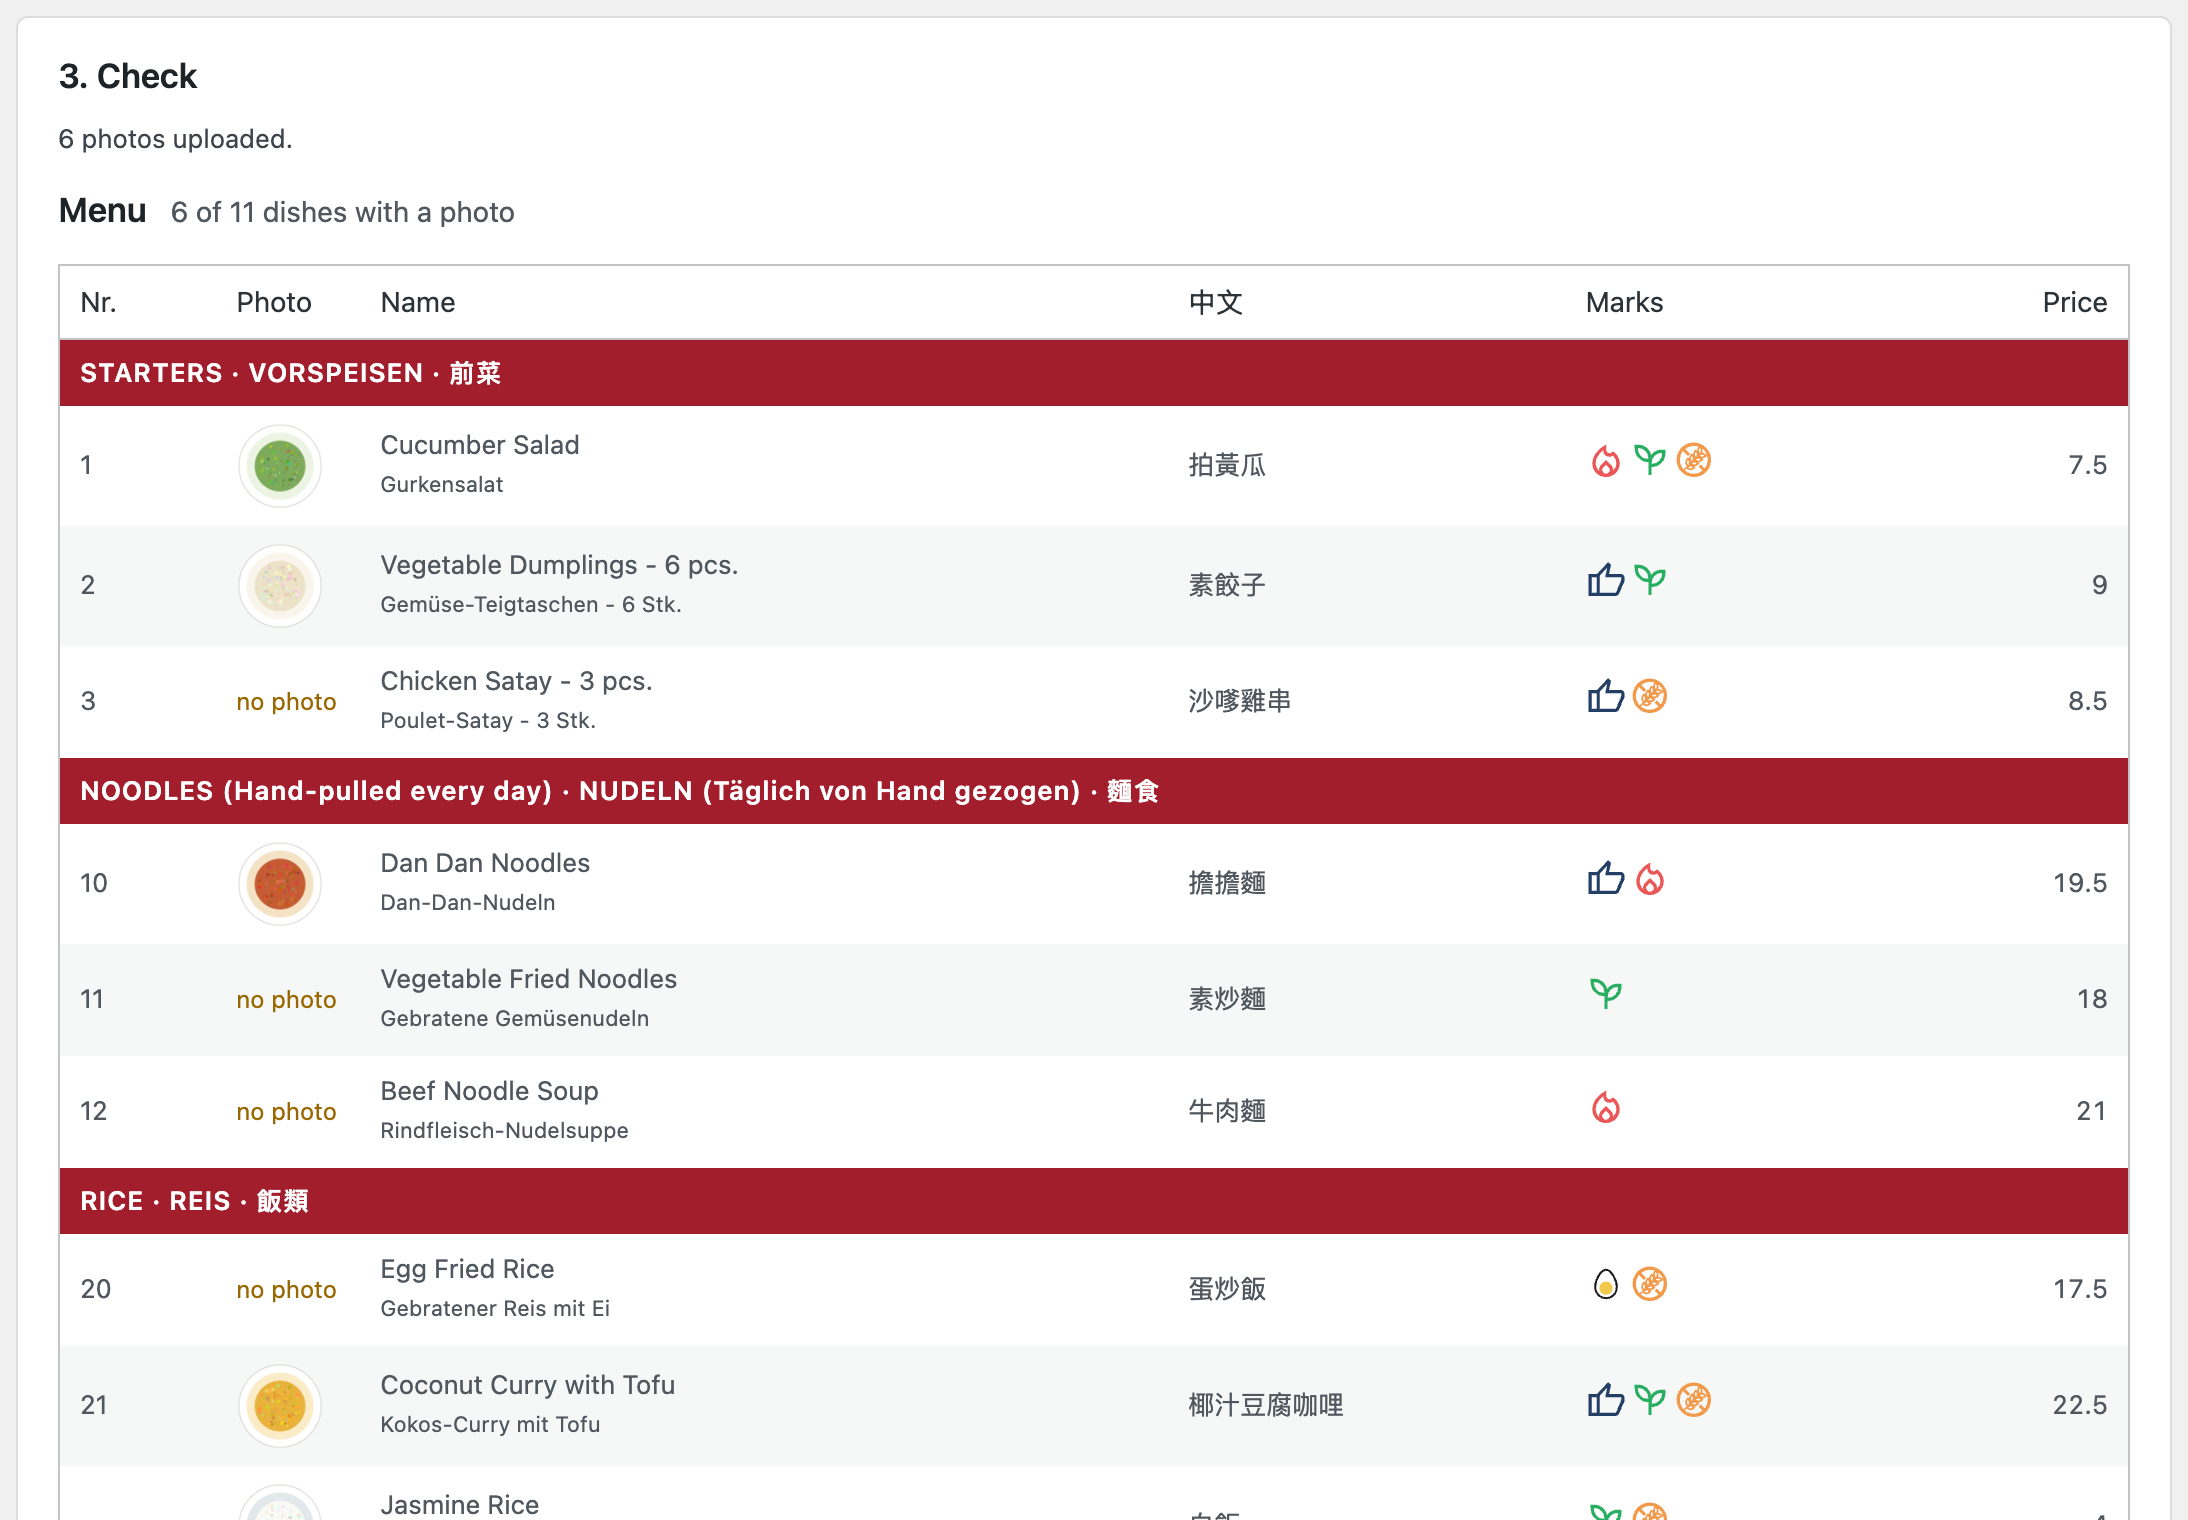
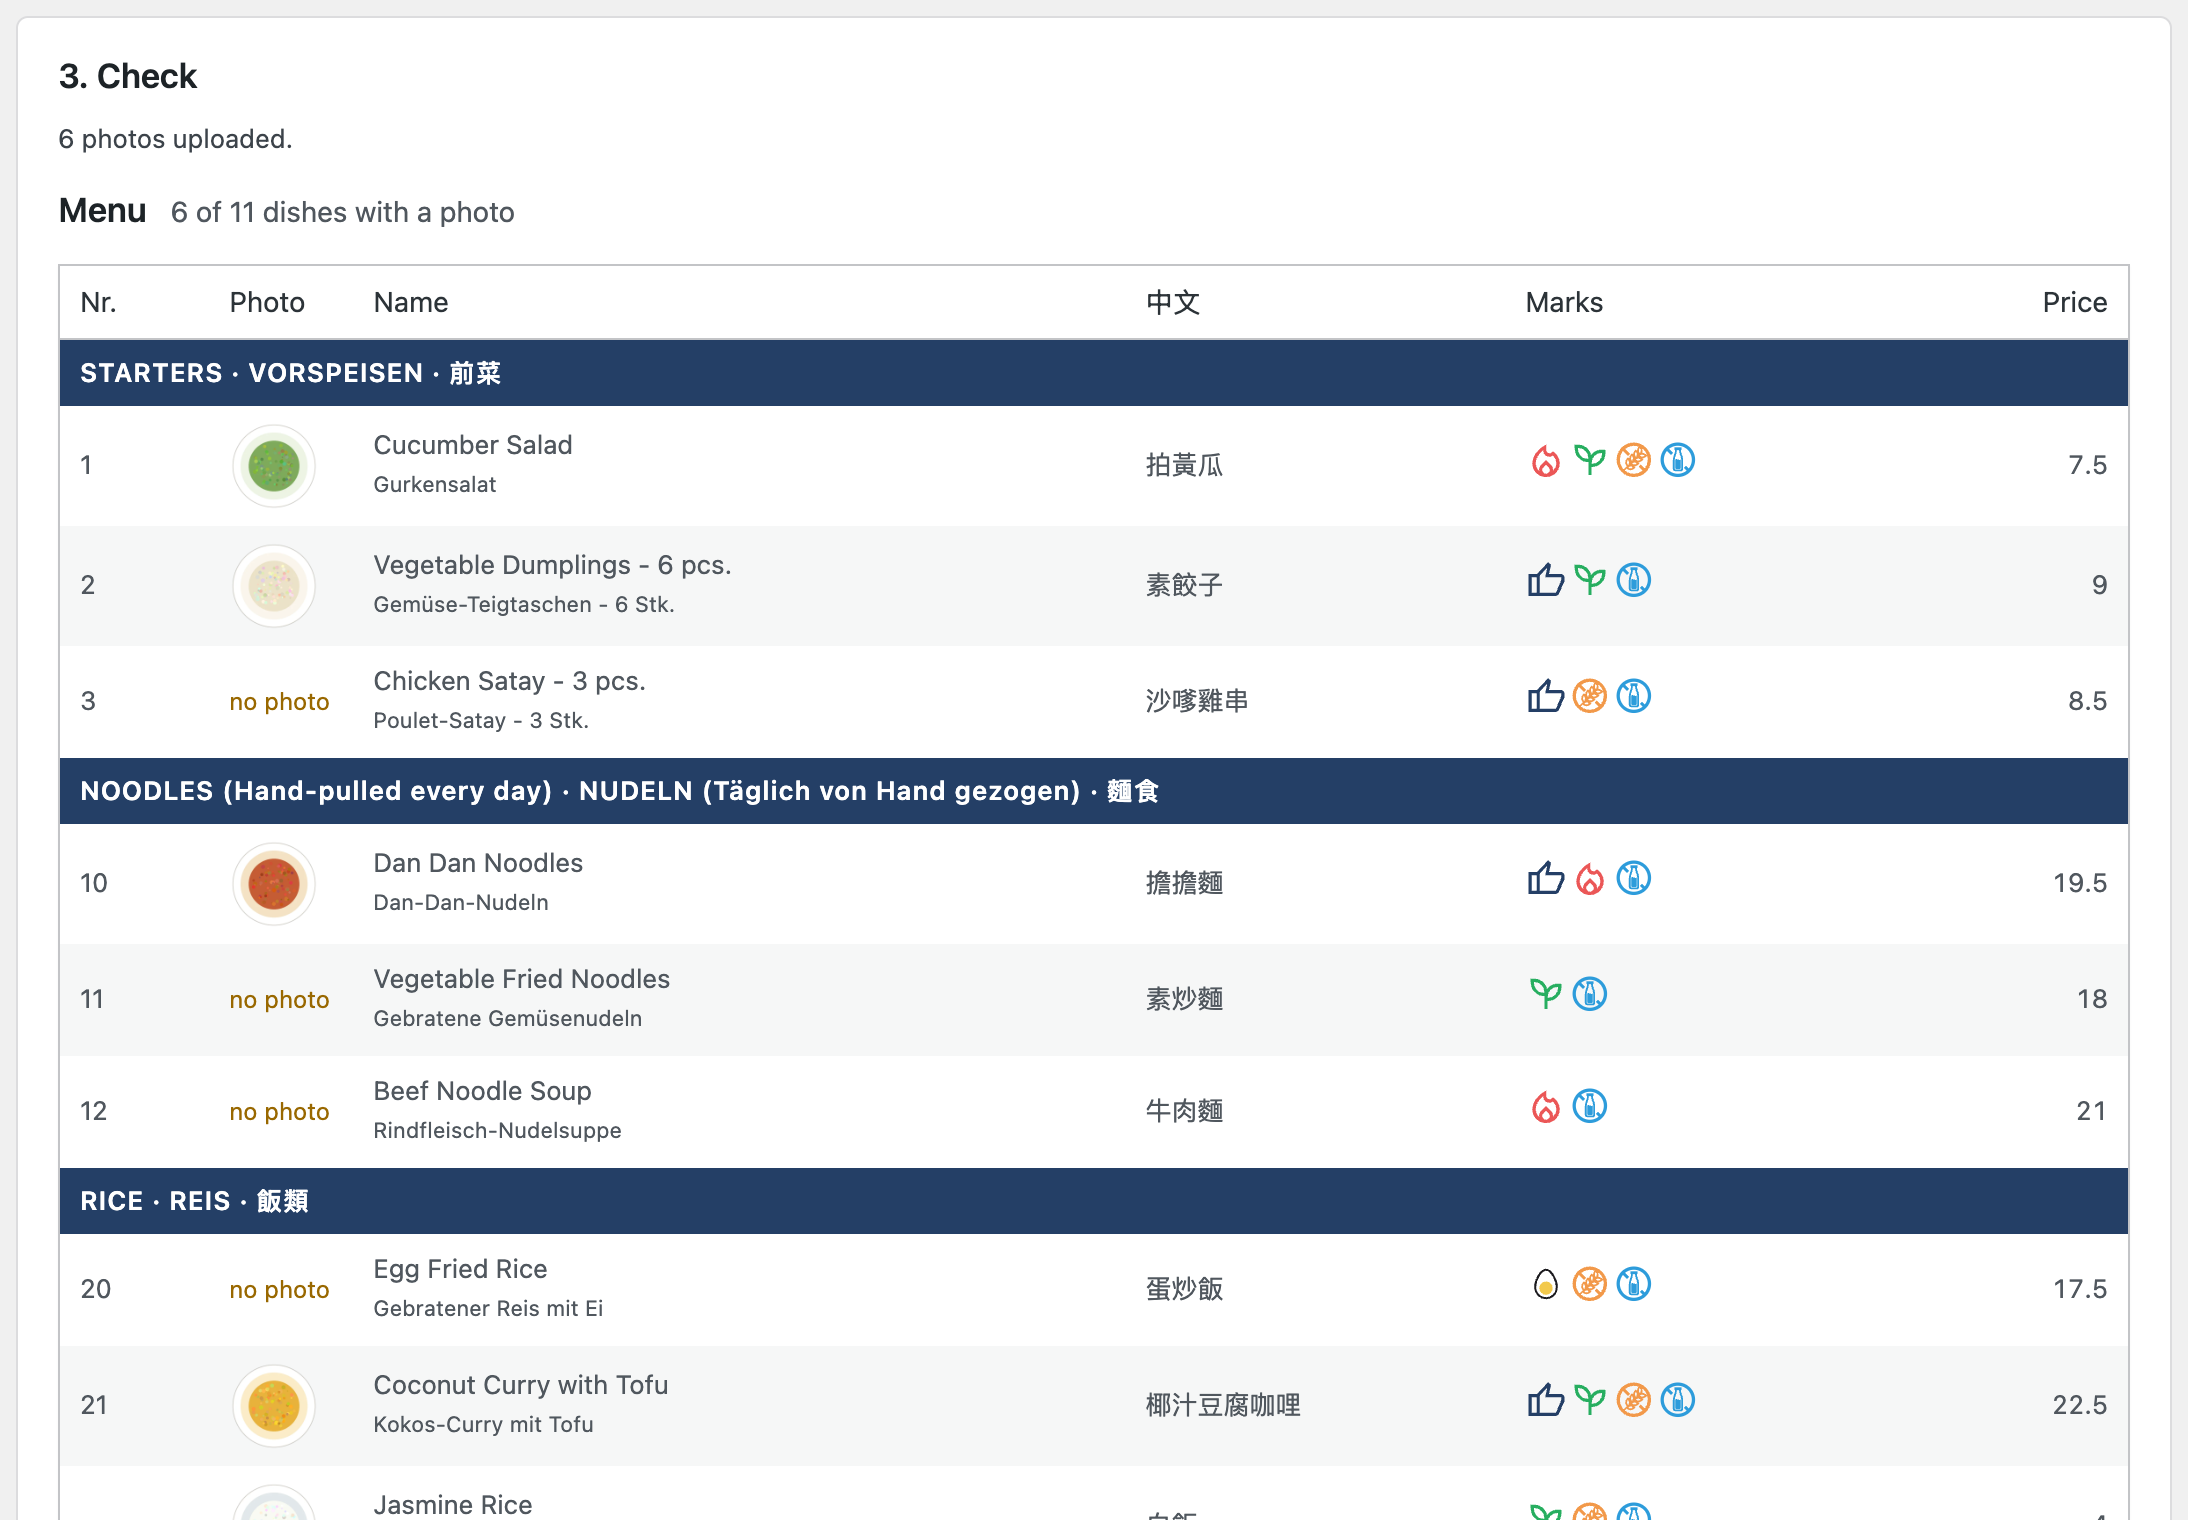
MenuDash 2.10.1: the dashboard's highlights in MenuDash's dark blue
The check table's category rows, the upload bar and the drop highlight used a hard-coded
red; they now use MenuDash's dark blue (#243F66). Buttons and links keep WordPress's own
colours. Dashboard screenshots 01, 04 and 06 retaken.

diff --git a/menudash/assets/admin.css b/menudash/assets/admin.css
@@ -1,3 +1,7 @@
+/* MenuDash's own colour for information on its screens (the add-ons' tabs too): the dark blue
+   of its icon and of the menu's default colours, for the check table, the upload bar and
+   highlights, and the Statistics charts. Buttons and links keep the dashboard's own colours. */
+.mdash-admin { --mdash-admin-accent: #243F66; --mdash-admin-tint: #eef1f6; }
 .mdash-admin .mdash-lead { font-size: 14px; }
 .mdash-admin .mdash-cards { display: grid; grid-template-columns: repeat(auto-fit, minmax(230px, 1fr)); gap: 16px; margin: 16px 0; }
 /* Menu tab: the upload cards in one row. Each card is heading · instructions · upload ·
@@ -29,7 +33,7 @@
 .mdash-admin .mdash-restore > :not(span) { flex: none; }
 
 .mdash-admin .mdash-drop { display: block; padding: 22px; border: 2px dashed #c3c4c7; border-radius: 8px; text-align: center; cursor: pointer; background: #f6f7f7; }
-.mdash-admin .mdash-drop.over { border-color: #A31E2C; background: #fbf0f1; }
+.mdash-admin .mdash-drop.over { border-color: var(--mdash-admin-accent); background: var(--mdash-admin-tint); }
 /* A CSV drop box with its buttons beside it, in one row; they go below it on a narrow card. */
 /* Upload: the drop area across the whole card, the button(s) in a row below it. */
 .mdash-admin .mdash-upload-row { display: flex; flex-direction: column; align-items: stretch; gap: 10px; }
@@ -37,7 +41,7 @@
 /* The file input itself is hidden (it squeezes to "No fil…hosen" in a narrow box); the
    label opens it, and the line under the button shows the chosen file. */
 .mdash-admin .mdash-drop .mdash-file { position: absolute; width: 1px; height: 1px; opacity: 0; }
-.mdash-admin .mdash-drop:focus-within { outline: 2px solid #A31E2C; outline-offset: 2px; }
+.mdash-admin .mdash-drop:focus-within { outline: 2px solid var(--mdash-admin-accent); outline-offset: 2px; }
 .mdash-admin .mdash-drop .button { pointer-events: none; }
 .mdash-admin .mdash-drop-name { display: block; margin-top: 6px; overflow-wrap: anywhere; font-size: 12px; }
 .mdash-admin .mdash-drop.has-file .mdash-drop-name { color: #1d2327; font-weight: 600; }
@@ -45,11 +49,11 @@
 .mdash-admin .mdash-upload-btns { display: flex; flex-wrap: wrap; gap: 8px; }
 .mdash-admin .mdash-upload-btns .button { flex: 1 1 auto; margin: 0; text-align: center; }
 .mdash-admin .mdash-icon-item { border: 2px dashed #dcdcde; }
-.mdash-admin .mdash-icon-item.over { border-color: #A31E2C; background: #fbf0f1; }
+.mdash-admin .mdash-icon-item.over { border-color: var(--mdash-admin-accent); background: var(--mdash-admin-tint); }
 .mdash-admin .mdash-drop input { display: block; margin: 0 auto 8px; }
 .mdash-admin .mdash-drop span { color: #50575e; }
 .mdash-admin .mdash-meter { height: 8px; margin-top: 12px; background: #f0f0f1; border-radius: 4px; overflow: hidden; }
-.mdash-admin .mdash-meter span { display: block; width: 0; height: 100%; background: #A31E2C; transition: width .2s; }
+.mdash-admin .mdash-meter span { display: block; width: 0; height: 100%; background: var(--mdash-admin-accent); transition: width .2s; }
 .mdash-admin .mdash-log { max-height: 220px; overflow: auto; margin: 8px 0 0 0; list-style: none; font-size: 12px; }
 .mdash-admin .mdash-log .ok { color: #1a7f37; }
 .mdash-admin .mdash-log .warn { color: #996800; }
@@ -62,7 +66,7 @@
 .mdash-admin .mdash-del { color: #b32d2e; }
 
 .mdash-admin .mdash-table td, .mdash-admin .mdash-table th { vertical-align: middle; }
-.mdash-admin .mdash-table .mdash-sec th { background: #A31E2C; color: #fff; font-weight: 600; letter-spacing: .04em; }
+.mdash-admin .mdash-table .mdash-sec th { background: var(--mdash-admin-accent); color: #fff; font-weight: 600; letter-spacing: .04em; }
 .mdash-admin .mdash-table .num { text-align: right; font-variant-numeric: tabular-nums; }
 .mdash-admin .mdash-thumb { width: 52px; }
 .mdash-admin .mdash-thumb img { display: block; width: 44px; height: 44px; object-fit: contain; }

diff --git a/menudash/menudash.php b/menudash/menudash.php
@@ -2,7 +2,7 @@
 /**
  * Plugin Name:       MenuDash
  * Description:       A restaurant menu for your website, kept in a spreadsheet: upload the menu as CSV and the dish photos under MenuDash, then put [menudash] on a page. Guests read it in German, English and Chinese, all at once or one at a time, and filter by diet. Background and highlight colours and the diet icons are chosen on the MenuDash page, and a QR code to the menu prints as table cards. Add-ons: MenuDash Restaurant (details, opening hours, holidays, "open now"), MenuDash Specials (today's specials) and MenuDash Gift Cards (gift card orders).
- * Version:           2.10.0
+ * Version:           2.10.1
  * Requires at least: 6.3
  * Requires PHP:      7.4
  * Plugin URI:        https://insdash.ch/projects/menudash/
@@ -15,7 +15,7 @@
 
 defined( 'ABSPATH' ) || exit;
 
-define( 'MENUDASH_VERSION', '2.10.0' );
+define( 'MENUDASH_VERSION', '2.10.1' );
 define( 'MENUDASH_NAME', 'MenuDash' );
 define( 'MENUDASH_FILE', __FILE__ );
 define( 'MENUDASH_DIR', plugin_dir_path( __FILE__ ) );
